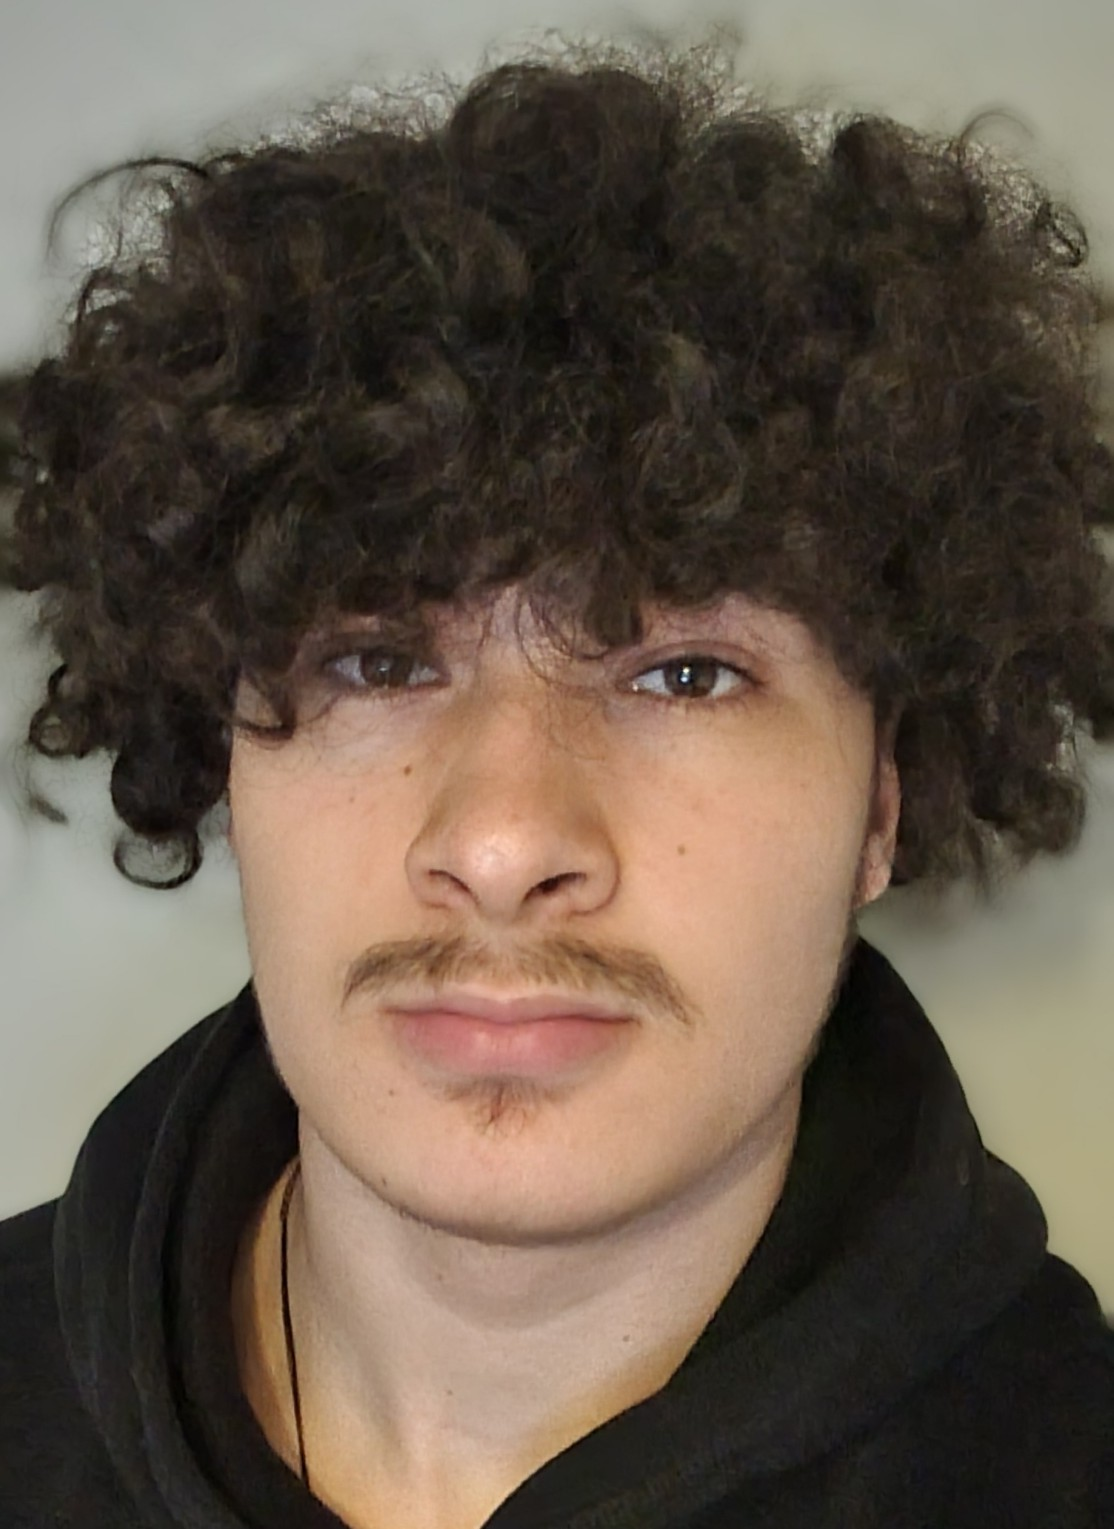
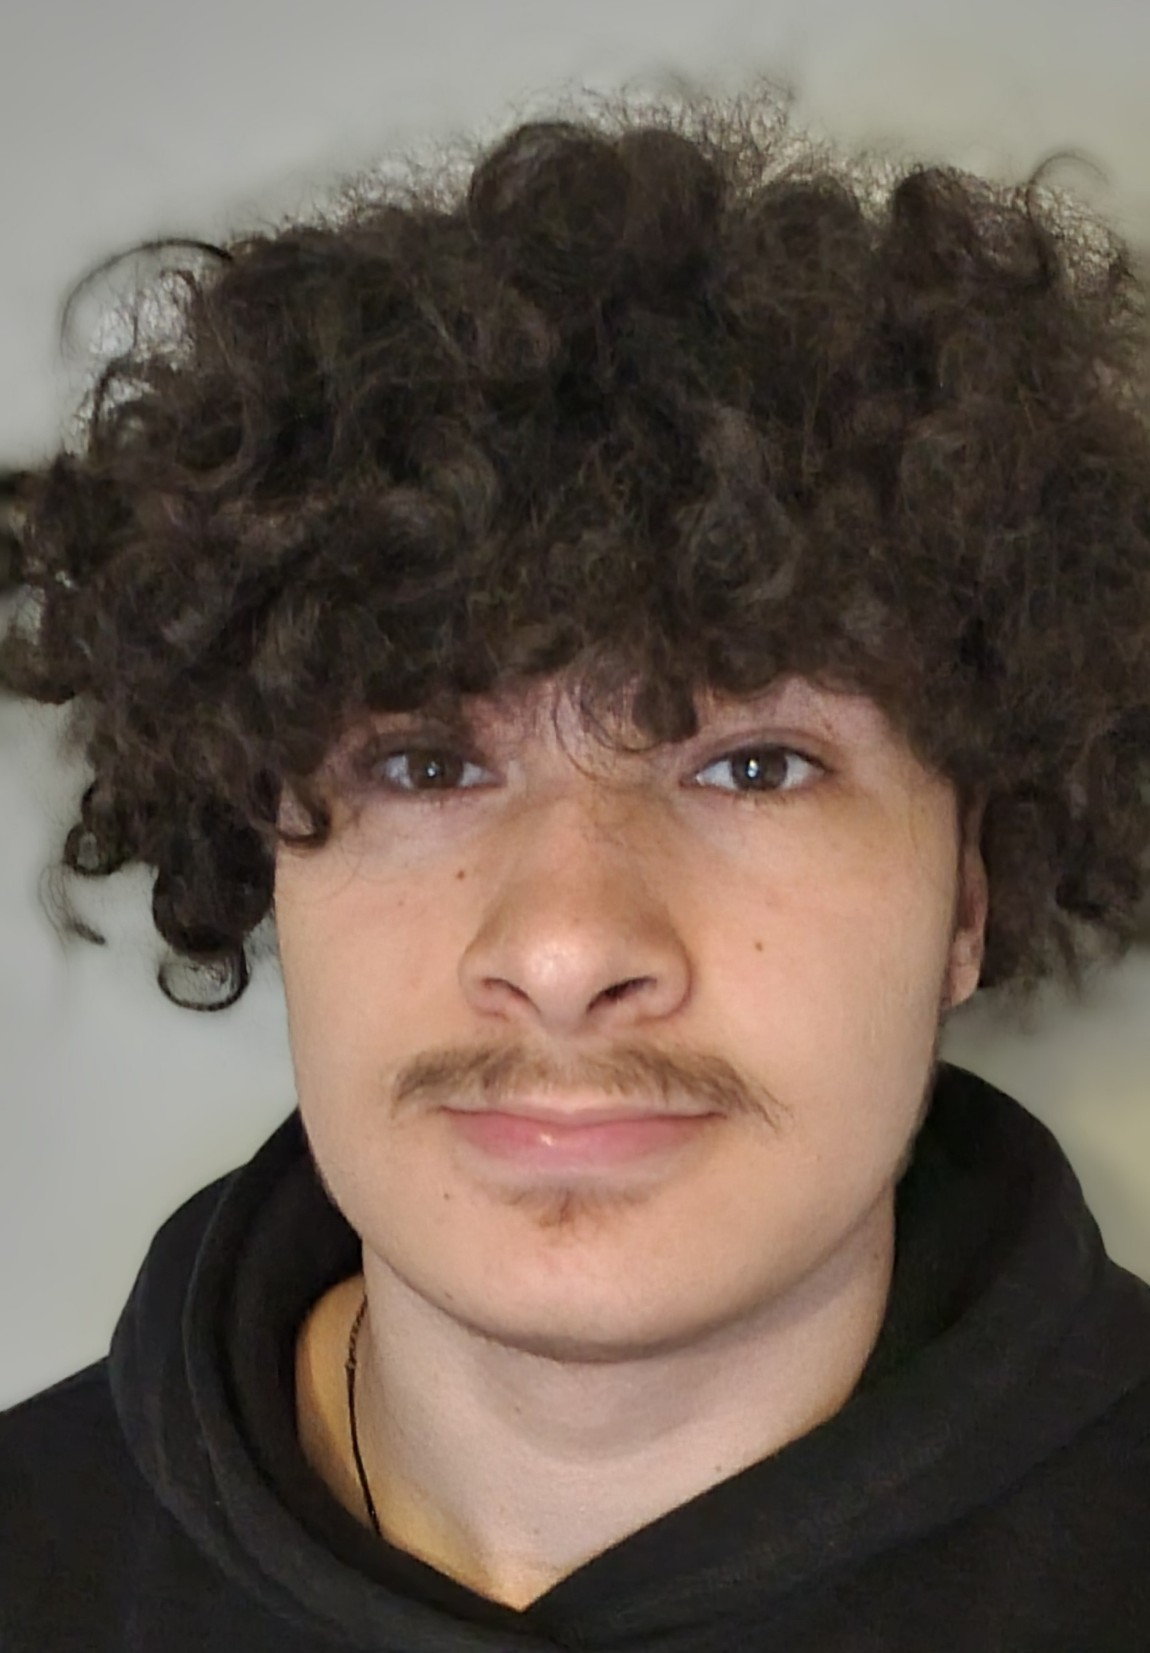
Updated About & Contact
Updated About text and picture, made caret visible on contact form input boxes

diff --git a/RileyProctor-PortfolioProject/src/components/About.tsx b/RileyProctor-PortfolioProject/src/components/About.tsx
@@ -14,9 +14,22 @@ const About = () => {
                     
                     <div className="md:text-xl">
                         <p>
-                            I've always been obsessed with games since a young age, playing games with my brother and dad shaped my childhood and ambitions.
-                            We were always playing games I was definitely too young to be playing such as Mortal Kombat and Gears of War, regardless, I've
-                            always been curious as to how games are actually made.
+                            Before we begin, this is my portfolio that I programmed myself in TypeScript. I used React, Vite and Tailwindcss for styling. Everything 
+                            here I made and coded, you can view the github repo with the source code{" "}
+                            <a
+                                href="https://github.com/RProctor2006/RileyProctor-Portfolio"
+                                target="_blank"
+                                rel="noopener noreferrer"
+                                className="text-blue-500 hover:underline dark:text-blue-400"
+                            >
+                                here.
+                            </a>
+                        </p>
+                        
+                        <p className="mt-4">
+                            I've always been obsessed with games since a young age. Playing games with my Brother and Dad helped shape my childhood and ambitions. 
+                            We were always playing games that I was definitely too young to be playing, such as Mortal Kombat and Gears of War. 
+                            Regardless, I've always been curious as to how games are actually made.
                         </p>
 
                         <p className="sm:mt-6 lg:mt-4">
@@ -25,28 +38,28 @@ const About = () => {
                         </p>
 
                         <p className="mt-4">
-                            From that point on, I've been infatuated with the games industry, self teaching myself for years until
-                            receiving formal teaching at the Confetti Institute of Creative Technologies college in Nottingham, on the Level 3 Games Technology
-                            Course. To now being in my 2nd year, studying Game Development at the University of Staffordshire in Stoke-On-Trent.
+                            From that point on, I've been infatuated with the games industry, self-learning for years until receiving formal teaching at the 
+                            Confetti Institute of Creative Technologies college in Nottingham, on the Level 3 Games Technology Course. Currently I'm in my 2nd 
+                            year, studying Game Development at the University of Staffordshire, Stoke-On-Trent.
                         </p>
 
                         <p className="mt-4">
-                            Over the years of self learning and formal teaching I have encountered many problems, issues and crashes, as well as becoming more inspired
-                            and dedicated to learn as much as I can about gameplay programming. Every time I got a new idea, 100 problems came with it, and solving those
-                            problems is the most satisfying feeling in the world. Whether it be having to re-plan a system, or just check one boolean, it's always a blast
-                            problem solving.
+                            Over the years of self learning and formal teaching I have encountered many problems, issues and crashes, as well as becoming more 
+                            inspired and dedicated to learn as much as I can about gameplay programming. Every time I had a new idea, 100 problems came with it. 
+                            Being able to solve those problems is the most satisfying feeling in the world. Whether it be having to re-plan a system, or just 
+                            check one boolean, it's always a blast problem solving.
                         </p>
 
                         <p className="mt-4">
-                            Programming has always been my interest in games development, the concept of being able to make anything happen just from writing some words
-                            seemed insane to me. I never could of imagined how far it went, learning what I've learnt at University. Such as the ability to manipulate
-                            specific bits with Bitwise Operations or the process of Data Locality for optimisation. I never would of thought about these things when
-                            playing a game normally.
+                            Programming has always been my interest in games development, the concept of being able to make anything happen just from writing some 
+                            words seemed insane to me. I never could of imagined how far it went, learning what I've learnt at University. Such as the ability to 
+                            manipulate specific bits with Bitwise Operations or the process of Data Locality for optimisation. I never would of thought about these 
+                            things when playing a game normally.
                         </p>
 
                         <p className="mt-4">
-                            I know for certain that the games industry is where I want to be, and having my name in the credits of a popular and beloved game
-                            is my dream. Being able to inspire another generation of game devs, as I was, is what I aim for.
+                            I know for certain that the games industry is where I want to be, and having my name in the credits of a popular and beloved game is my 
+                            dream. Being able to inspire another generation of game devs, as I was, is what I aim for.
                         </p>
                     </div>
                     

diff --git a/RileyProctor-PortfolioProject/src/components/Contact.tsx b/RileyProctor-PortfolioProject/src/components/Contact.tsx
@@ -42,13 +42,13 @@ function Contact() {
                 <form onSubmit={sendEmail} className="max-w-md mx-auto space-y-4 text-left ">
 
                     <div className="sm:w-[40vh] mx-auto md:w-full px-4 py-2 rounded bg-gray-800 dark:bg-darkbg border border-gray-700">
-                        <input name="from_name" placeholder="Your Name" className="w-full text-white bg-transparent outline-none caret-auto select-text placeholder-gray-400"></input>
+                        <input name="from_name" placeholder="Your Name" className="w-full text-white bg-transparent outline-none caret-white select-text placeholder-gray-400"></input>
                     </div>
                     <div className="sm:w-[40vh] mx-auto md:w-full px-4 py-2 rounded bg-gray-800 dark:bg-darkbg border border-gray-700">
-                        <input name="from_email" placeholder="Your Email" className="w-full text-white bg-transparent outline-none caret-auto placeholder-gray-400"></input>
+                        <input name="from_email" placeholder="Your Email" className="w-full text-white bg-transparent outline-none caret-white placeholder-gray-400"></input>
                     </div>
                     <div className="sm:w-[40vh] mx-auto md:w-full px-4 py-2 rounded bg-gray-800 dark:bg-darkbg border border-gray-700 focus:outline-none focus:ring-blue-500 overflow-hidden">
-                        <textarea name="message" placeholder="Your Message" rows={5} className="w-full text-white placeholder-gray-400 bg-transparent outline-none caret-auto"></textarea>
+                        <textarea name="message" placeholder="Your Message" rows={5} className="w-full text-white placeholder-gray-400 bg-transparent outline-none caret-white"></textarea>
                     </div>
                     <button type="submit" className="block sm:w-[40vh] mx-auto md:w-full bg-blue-600 hover:bg-lightbutton hover:text-black dark:bg-darkbg hover:bg-blue-700 dark:hover:bg-darklightsec dark:hover:text-white transition-colors text-white font-semibold py-2 px-4 rounded">
                         Send Message
